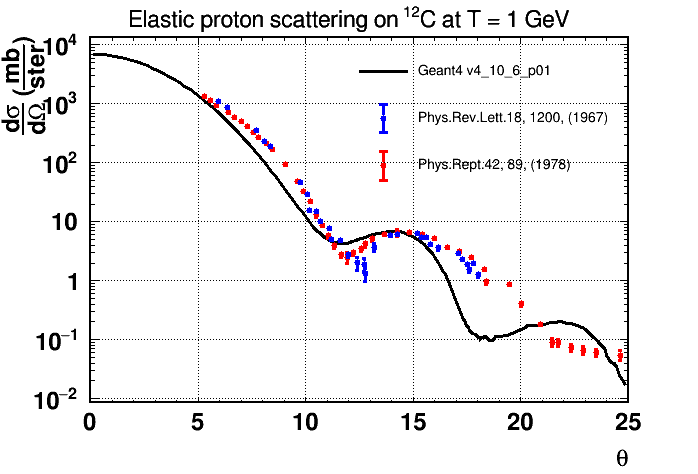
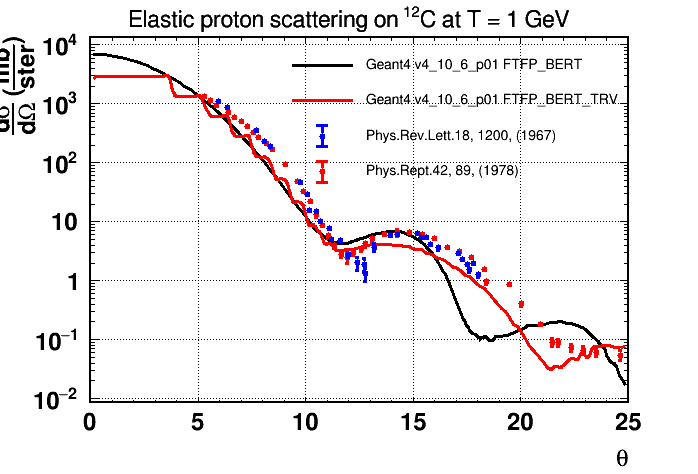
Add FTFP_BERT_TRV prediction.

diff --git a/scripts/proton/pC_diff.C b/scripts/proton/pC_diff.C
@@ -1,0 +1,61 @@
+{
+  gStyle->SetOptStat(0);
+  TCanvas *c1 = new TCanvas("c1","c1");
+
+  TFile f1_FTFP_BERT("../../sim/proton/pC_diff_FTFP_BERT.root");
+  TFile f1_FTFP_BERT_TRV("../../sim/proton/pC_diff_FTFP_BERT_TRV.root");
+
+  TH1D *diff_FTFP_BERT = (TH1D*)f1_FTFP_BERT.Get("diff");
+  TH1D *diff_FTFP_BERT_TRV = (TH1D*)f1_FTFP_BERT_TRV.Get("diff");
+
+  diff_FTFP_BERT->Draw("hist c");
+  diff_FTFP_BERT_TRV->SetLineColor(2);
+  diff_FTFP_BERT_TRV->Draw("hist c same");
+
+  gPad->SetLogy();
+  gPad->SetGridx();
+  gPad->SetGridy();
+
+  TFile f2("../../data/proton/HEPData-ins135538-v1-root.root");
+  TGraph *gr = (TGraph*)f2.Get("Table 2/Graph1D_y1");
+  gr->SetMarkerColor(2);
+  gr->SetLineColor(2);
+  gr->Draw("p");
+
+  ifstream in;
+  in.open("../../data/proton/p_C_PhysRevLett.18.1200.txt");
+  vector<double> vx;
+  vector<double> vy;
+  vector<double> ve;
+
+  char line[1024];
+  while(1){
+    in.getline(line, 1024);
+    if (!in.good()) break;
+    if (line[0]=='-' || line[0] == '#' || line[4] == 'N') continue;
+    double x, y, e;
+    sscanf(line, "%lf %lf %lf", &x, &y, &e);
+    //cout<<x0<<" "<<x1<<" "<<x2<<" "<<x3<<" "<<x4<<endl;
+    vx.push_back(x);
+    vy.push_back(y*1e3);
+    ve.push_back(e*1e3);
+  }
+
+  TGraphErrors *gr_prl_18_1200 = new TGraphErrors(vx.size(), &vx[0], &vy[0], 0, &ve[0]);
+  gr_prl_18_1200->SetMarkerColor(4);
+  gr_prl_18_1200->SetLineColor(4);
+  gr_prl_18_1200->SetLineWidth(3);
+  gr_prl_18_1200->Draw("p");
+
+  TLegend *leg = new TLegend(0.4,0.6,0.9,0.9);
+  leg->SetFillStyle(0);
+  leg->AddEntry(diff_FTFP_BERT,"Geant4 v4_10_6_p01 FTFP_BERT","l");
+  leg->AddEntry(diff_FTFP_BERT_TRV,"Geant4 v4_10_6_p01 FTFP_BERT_TRV","l");
+  leg->AddEntry(gr_prl_18_1200,"Phys.Rev.Lett.18, 1200, (1967)","pe");
+  leg->AddEntry(gr,"Phys.Rept.42, 89, (1978)","pe");
+  leg->Draw();
+
+  c1->Print("../../figures/proton/pC1GeVdiff.png");
+  c1->Print("../../figures/proton/pC1GeVdiff.pdf");
+  
+}
